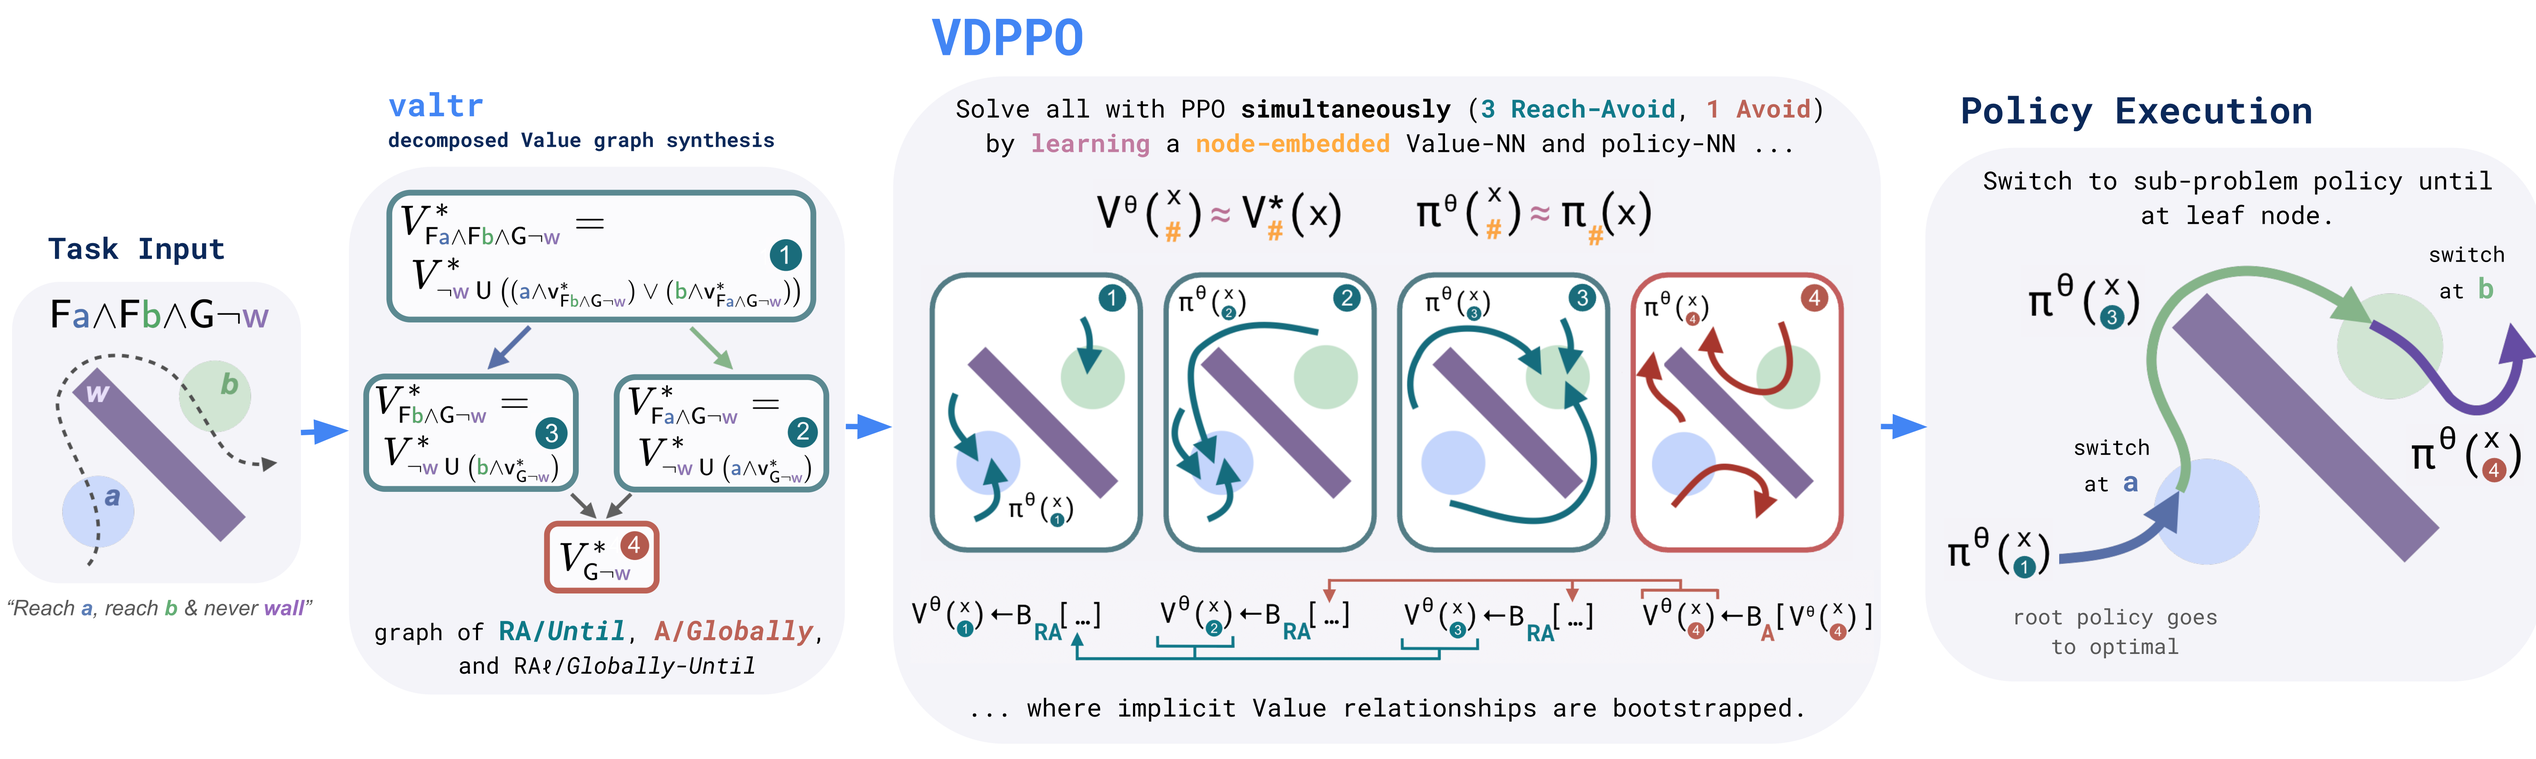
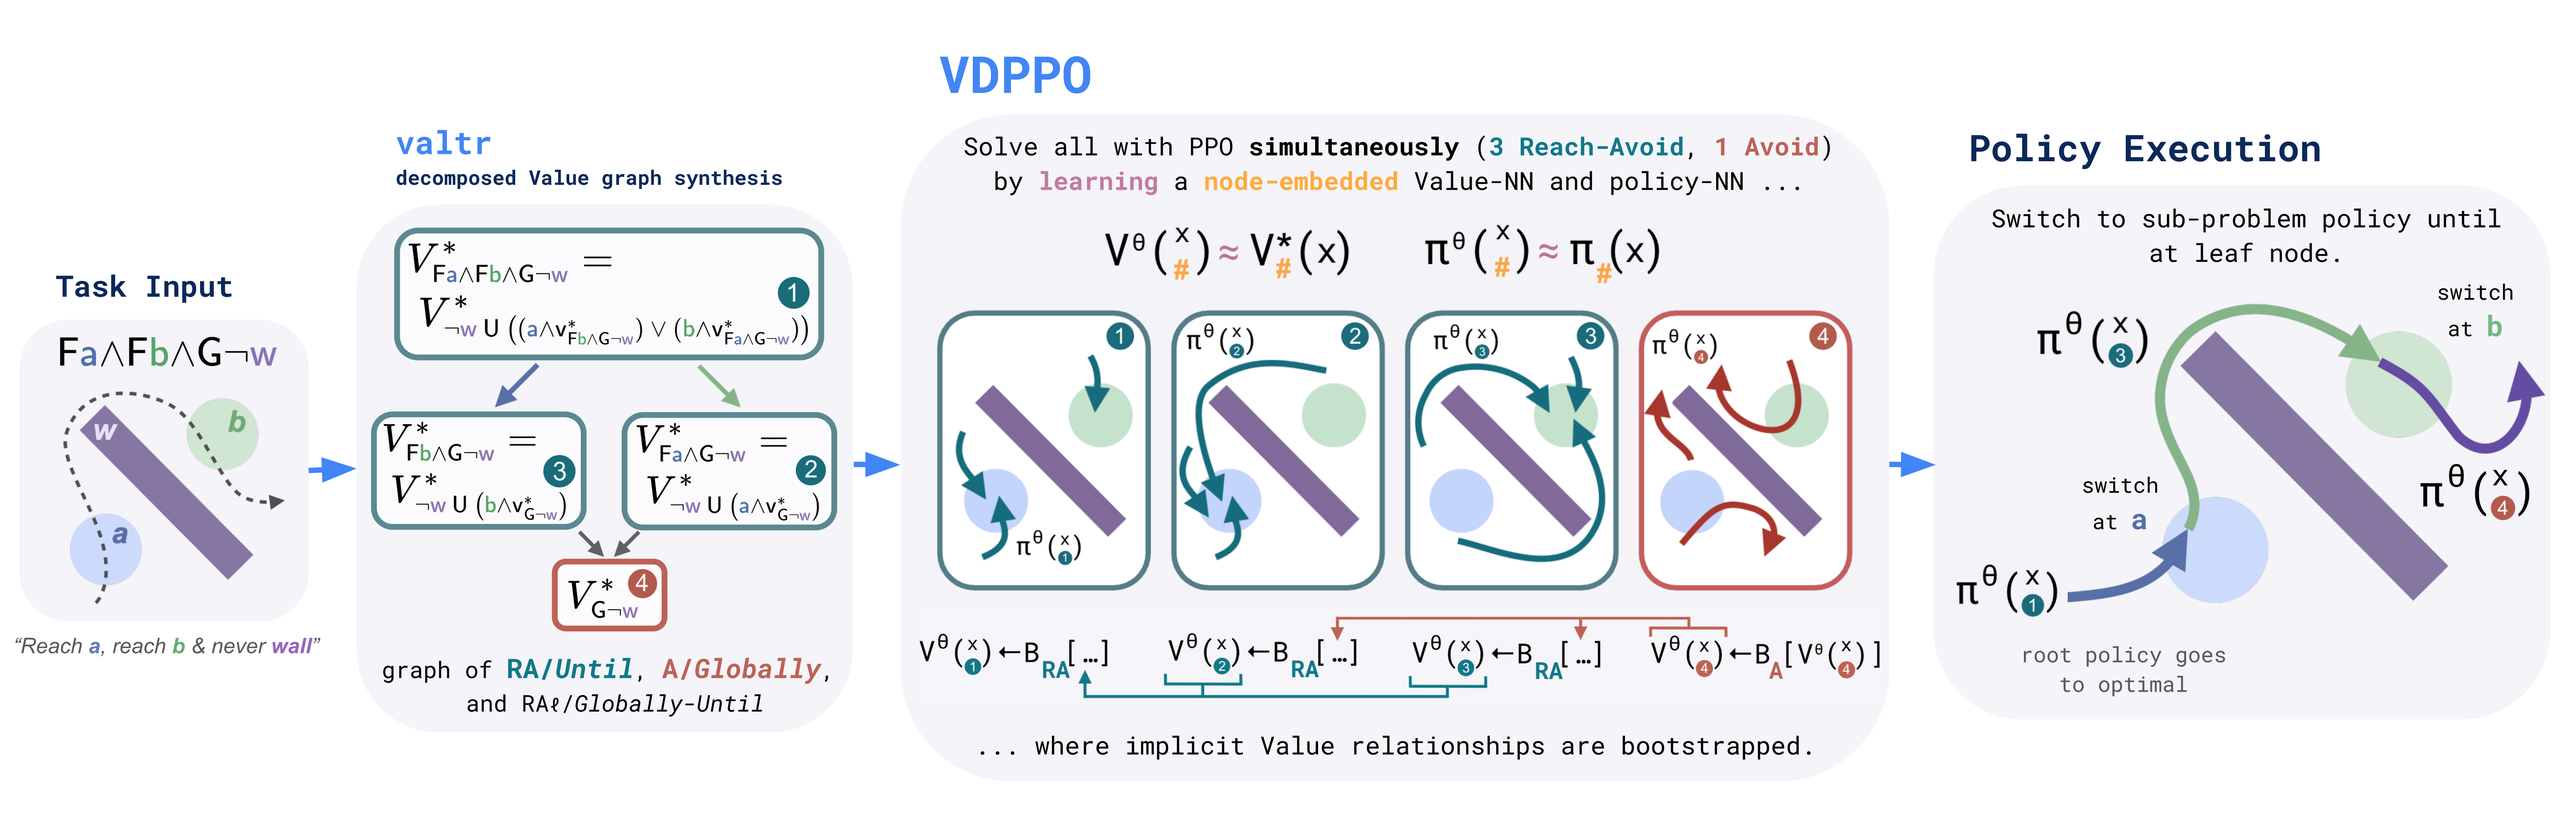
readme updates

diff --git a/README.md b/README.md
@@ -1,12 +1,12 @@
-# vdppo
+# VDPPO
 
-This repo contains the jax code for Value Decomposition PPO (VDPPO) from [Bellman Value Decomposition for Task Logic in Safe Optimal Control](https://willsharpless.github.io/valdec-site/) \[RSS '26\]. This package is hevaily dependent on [valtr](https://willsharpless.github.io/valtr/) for generating the decomposed Value graph (DVG).
+This repo contains the jax code for Value Decomposition PPO from [Bellman Value Decomposition for Task Logic](https://willsharpless.github.io/valdec-site/) \[RSS '26\]. The algorithm relies on [valtr](https://willsharpless.github.io/valtr/) to generate the decomposed Value graph (DVG).
 
 ## basic summary
 
-This PPO variant decomposes the Value for a given temporal-logic specification into ``atomic'' Bellman equations (BEs), and learns an actor and critic for all policies and Values concurrently. Namely, for a given spec, VDPPO synthesizes the DVG (with [valtr](https://willsharpless.github.io/valtr/)) and learns an embedding (one-hot) for the graph. 
+For given temporal logic, this PPO variant decomposes the Value into a graph of "atomic" Bellman equations (BEs) (via [valtr](https://willsharpless.github.io/valtr/)) and learns an actor and critic for all policies and Values concurrently by embedding (one-hot) the graph. 
 
-<img src="vdppo_graphic.png" alt="VDPPO graphic" style="border:10px solid white;">
+![VDPPO graphic](vdppo_graphic.png)
 
 This involves distributing rollouts across all nodes and using the corresponding BE for each node to compute the batched target. To compute the BE for each node, the necessary child/dependent Values (based on DVG) are bootstrapped with the current embedded approximation.
 
@@ -20,7 +20,7 @@ pip install -e .
 ```
 python scripts/train.py ALG --name test30k --debug --env-name ENV --n-train-steps 30000
 ```
-where `ALG` is one of `[vd, lcrl, mppi, ppo]`, and  `ENV` is one of `[herdos, delivery, deliveryrealv2, ablation]`.
+where `ALG` is for example `vd` or `lcrl`, and  `ENV` is for example `herdos`, `delivery`, `deliveryrealv2` or `ablation`.
 
 ### testing
 
